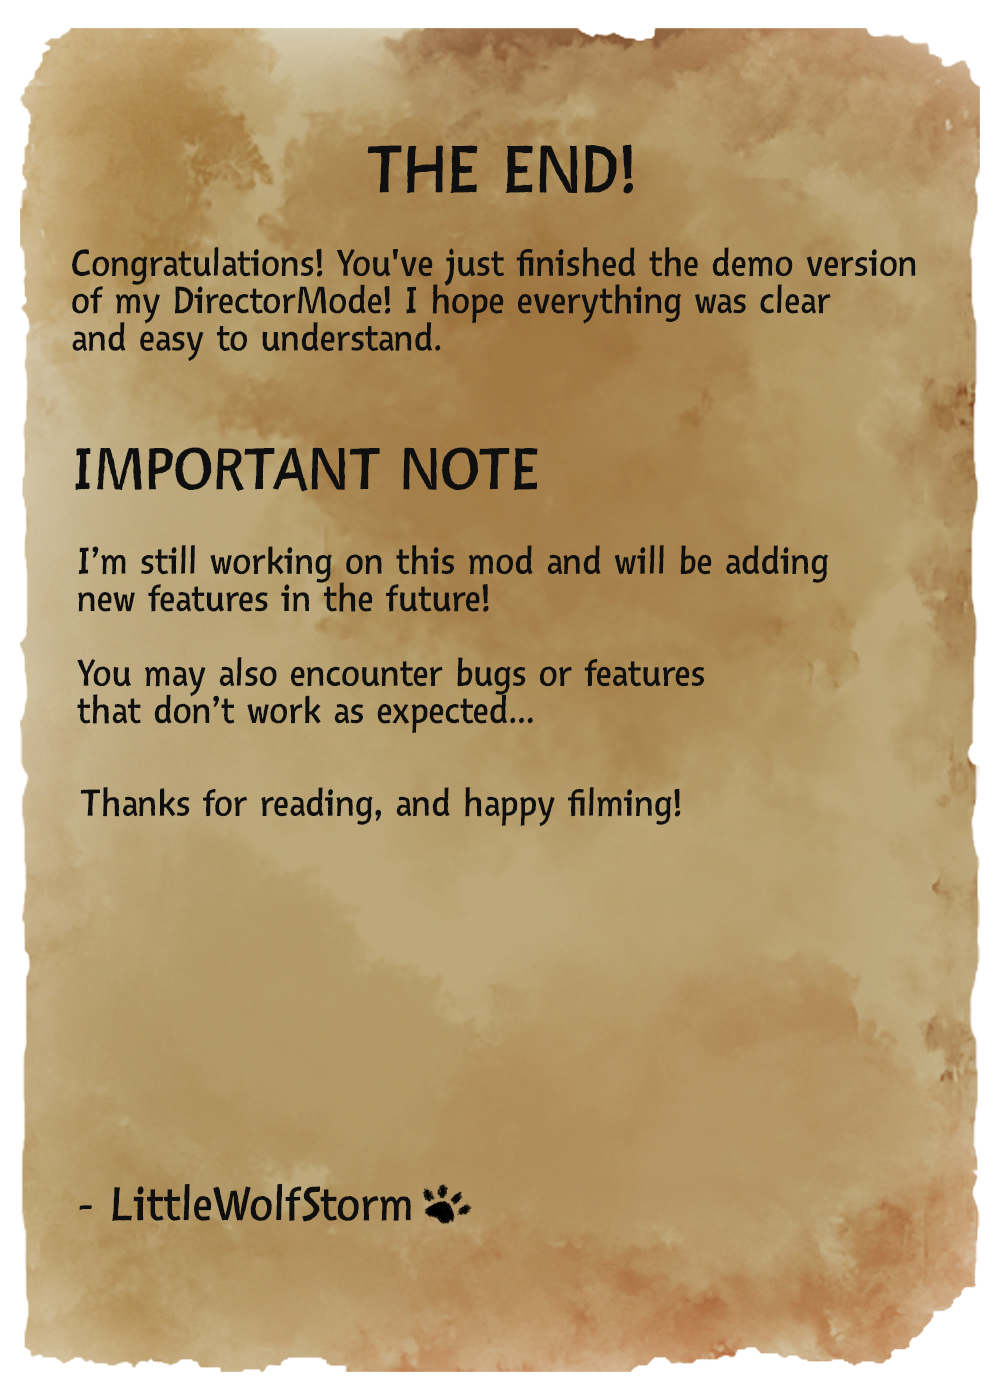
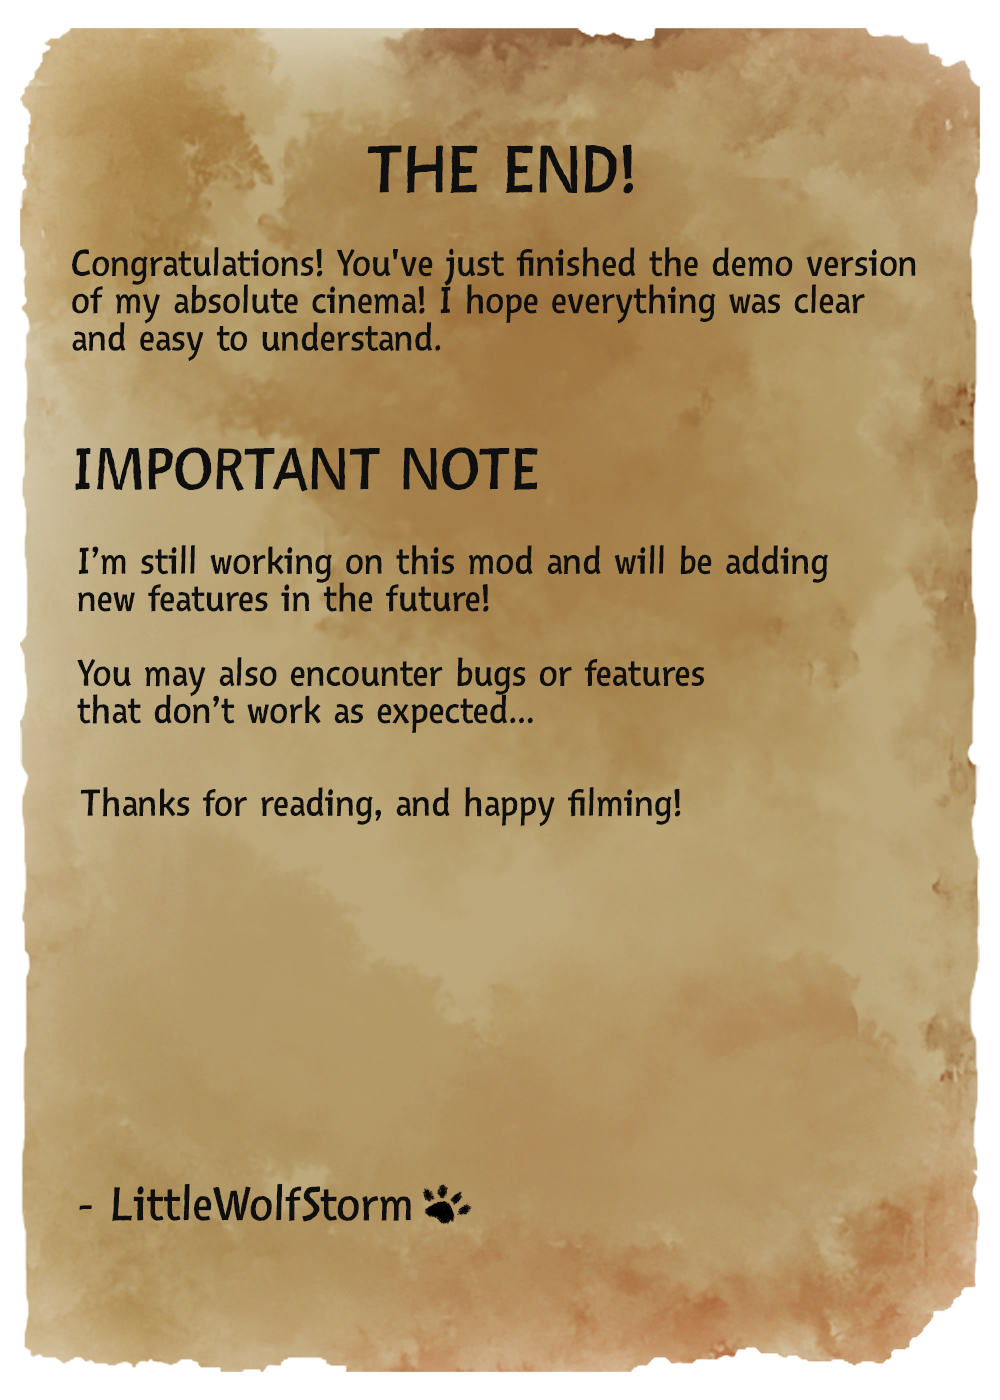
Small fix

Changed region(s): [[0.186, 0.1843, 0.868, 0.2457]]

diff --git a/Settings/Settings.cs b/Settings/Settings.cs
@@ -11,7 +11,7 @@ namespace DIrectorMode
         [Section("Tutorial")] // -------------------------------------------------------------------------------------- Tutorial
 
         [Name("Open tutorial")]
-        [Description("Little wolf Storm will show you how to use the DirectorMode!")]
+        [Description("Little wolf Storm will show you how to use the AbsoluteCinema!")]
         public KeyCode tutorialKey = KeyCode.P;
 
         [Section("Notifications")] // --------------------------------------------------------------------------------- Notifications
@@ -53,7 +53,7 @@ namespace DIrectorMode
         public int easeStrength = 15;
 
         [Name("Path curve amount")]
-        [Description("How smoothly the flight curves through the recorded points; 0 follows straight segments")]
+        [Description("How smoothly the flight curves through the recorded points, 0 follows straight segments")]
         [Slider(0, 1000)]
         public int pathCurveAmount = 350;
 
@@ -71,7 +71,7 @@ namespace DIrectorMode
         public float pathCameraSmoothing = 20f;
 
         [Name("Path preview opacity")]
-        [Description("Opacity of the path preview; 0.5 is half-visible")]
+        [Description("Opacity of the path preview, 0.5 is half-visible")]
         [Slider(0.05f, 1f)]
         public float pathPreviewOpacity = 0.5f;
 
@@ -164,7 +164,7 @@ namespace DIrectorMode
         public float vertigoMouseSensitivity = 0.1f;
 
         [Name("Movement smoothing")]
-        [Description("Higher values make the camera respond more slowly; this does not change dolly distance")]
+        [Description("Higher values make the camera respond more slowly, this does not change dolly distance")]
         [Slider(1f, 20f)]
         public float vertigoSmoothing = 8f;
 

diff --git a/Main.cs b/Main.cs
@@ -39,7 +39,7 @@ namespace DIrectorMode
         {
             Instance = this;
 
-            Settings.Instance.AddToModSettings("Director Mode");
+            Settings.Instance.AddToModSettings("Absolute Cinema");
             if (Settings.Instance.weatherMenuKey == KeyCode.F8)
                 Settings.Instance.weatherMenuKey = KeyCode.O;
             if (Settings.Instance.slowMoKey == KeyCode.O)
